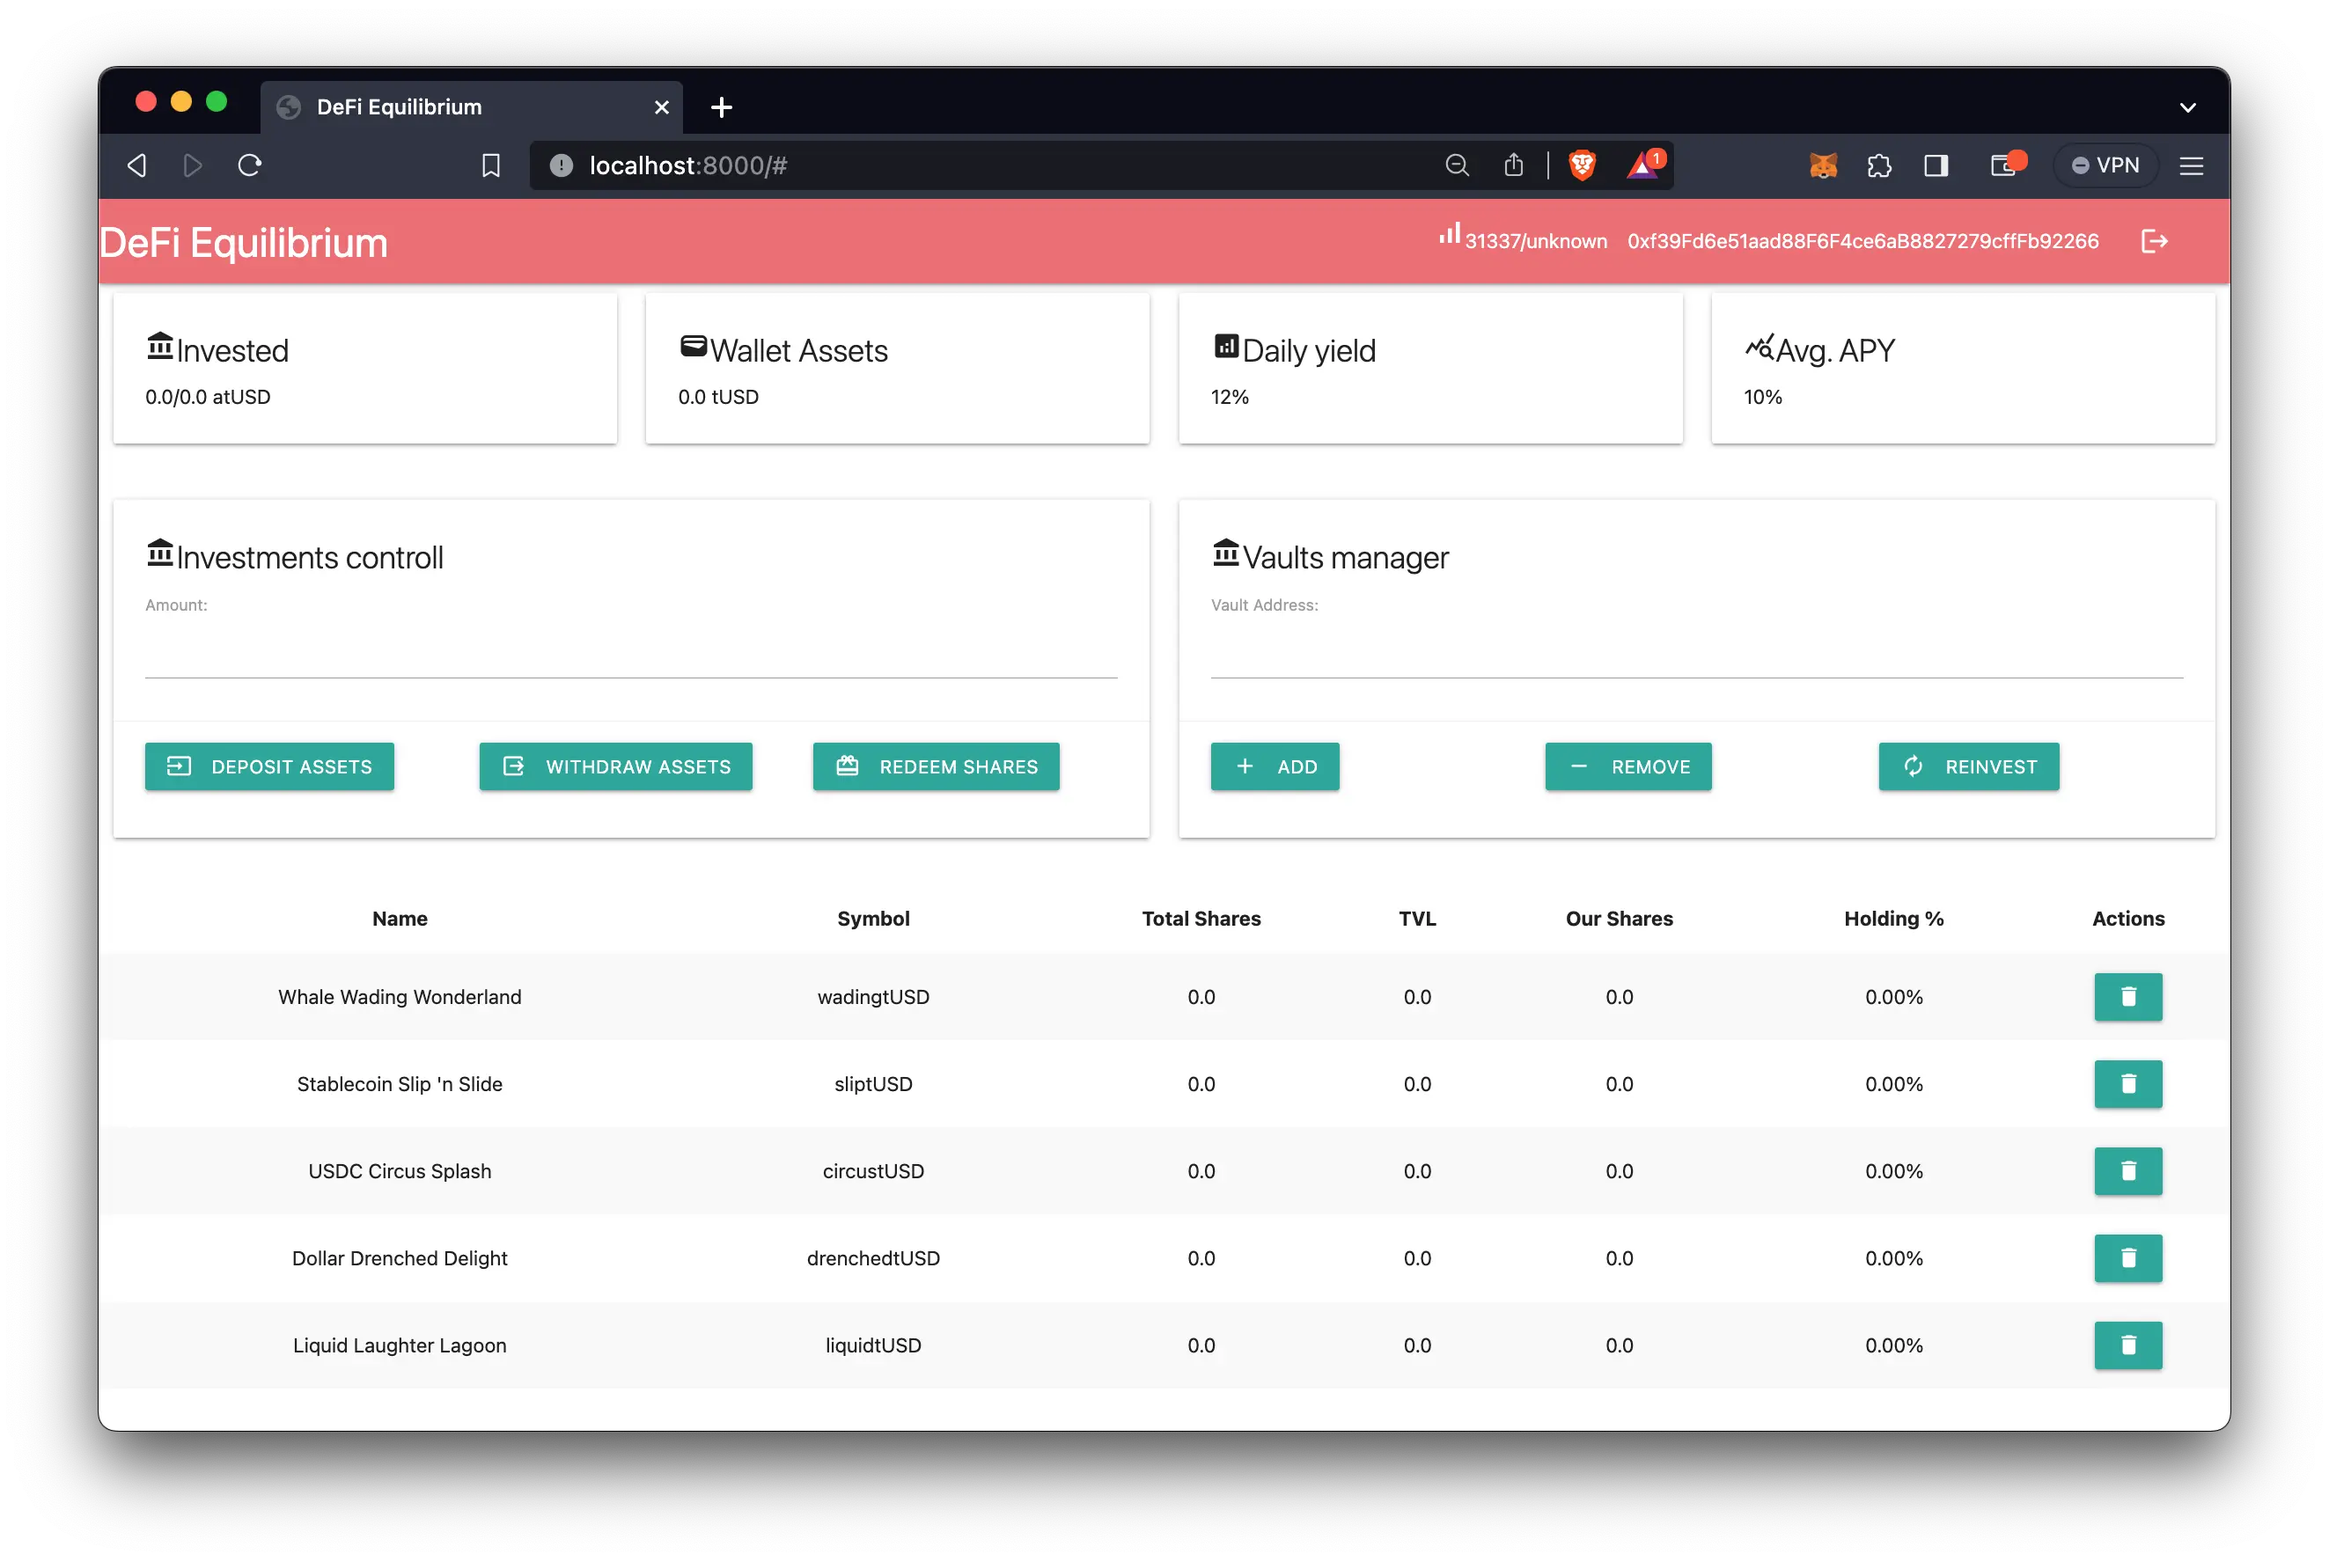
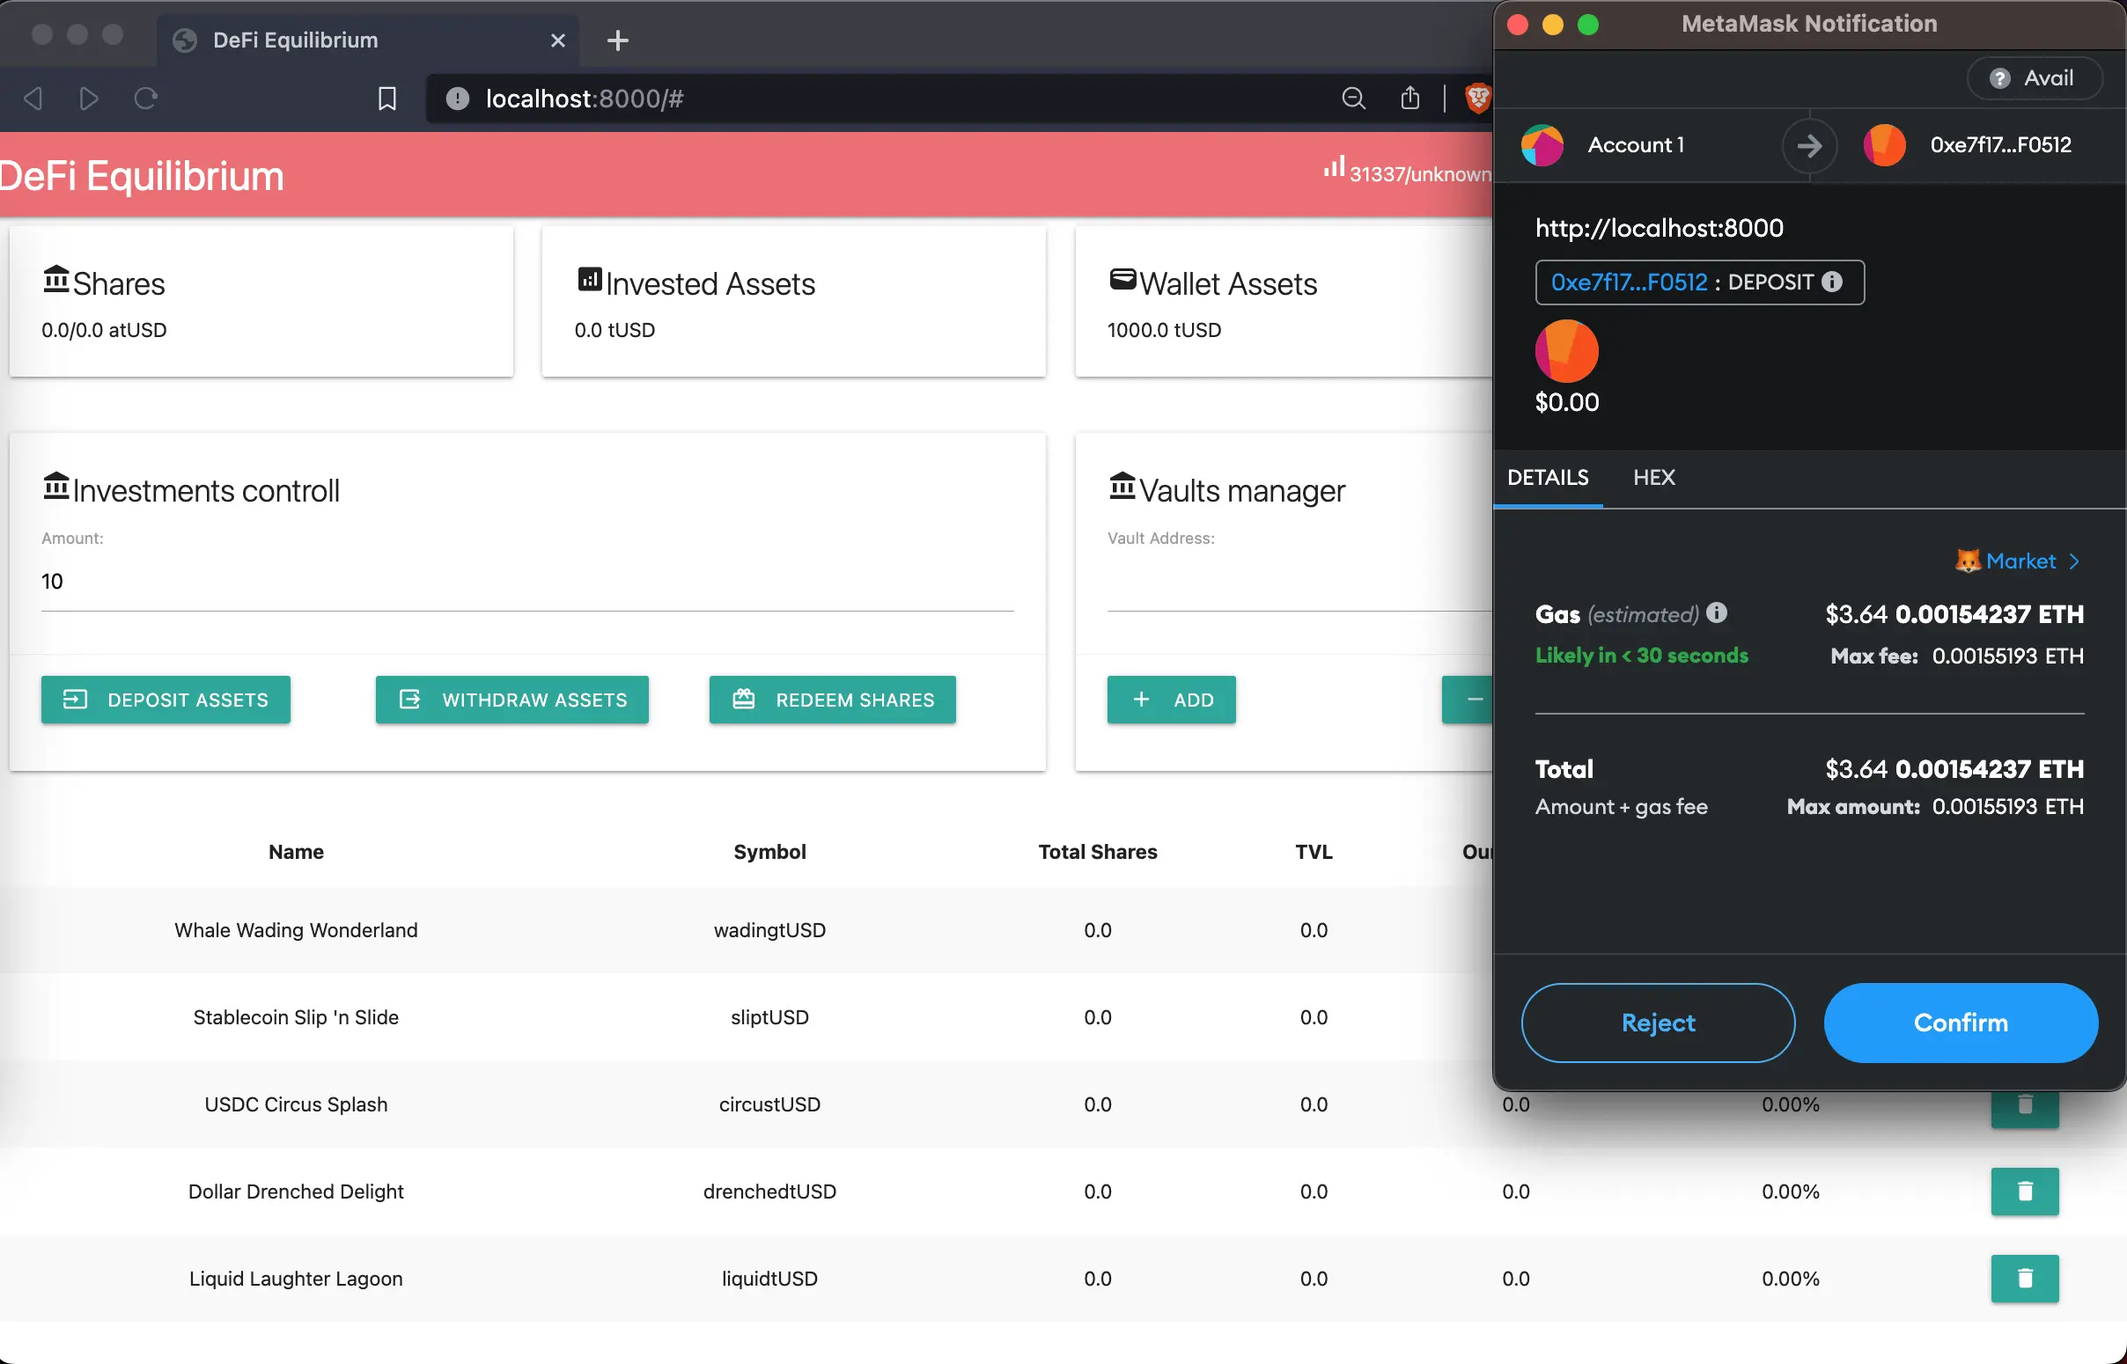
Update image

diff --git a/webapp-bootstrap/index.html b/webapp-bootstrap/index.html
@@ -18,9 +18,8 @@
         <div class="nav-wrapper">
             <span class="brand-logo">DeFi Equilibrium</span>
             <ul id="nav-mobile" class="right">
-                <li><span class="material-icons">signal_cellular_alt</span><span id="networkInfo"></span></li>
-                <li><a href="#"><span id="balanceInfo"></span></a></li>
-                <li><a href="#"><span id="walletInfo"></span></a></li>
+                <li><a><span class="material-icons">signal_cellular_alt</span><span id="networkInfo"></span></a></li>
+                <li><a><span class="material-icons">wallet</span><span id="walletInfo"></span></a></li>
                 <li><a href="#" id="connectWalletBtn"><i class="material-icons">account_balance_wallet</i></a></li>
                 <li><a href="#" id="disconnectWalletBtn"><i class="material-icons">logout</i></a></li>
 
@@ -70,8 +69,16 @@
         <div class="col s6 m3">
             <div class="card">
                 <div class="card-content">
-                    <span class="card-title"><i class="material-icons">account_balance</i>Invested </span>
+                    <span class="card-title"><i class="material-icons">account_balance</i>Shares</span>
                     <span id="shares">0</span></span>
+                </div>
+            </div>
+        </div>
+        <div class="col s6 m3">
+            <div class="card">
+                <div class="card-content">
+                    <span class="card-title"><i class="material-icons">analytics</i>Invested Assets</span>
+                    <span id="investedAssets">0</span></span>
                 </div>
             </div>
         </div>
@@ -80,14 +87,6 @@
                 <div class="card-content">
                     <span class="card-title"><i class="material-icons">wallet</i>Wallet Assets</span>
                     <span id="walletAssets">0</span></span>
-                </div>
-            </div>
-        </div>
-        <div class="col s6 m3">
-            <div class="card">
-                <div class="card-content">
-                    <span class="card-title"><i class="material-icons">analytics</i>Daily yield</span>
-                    <span id="walletAssets">12%</span></span>
                 </div>
             </div>
         </div>
@@ -106,10 +105,10 @@
             document.getElementById('shares').innerText = ethers.utils.formatEther(balance) + "/" + ethers.utils.formatEther(total) + " " + symbol;
         }
         function updateInvestedAssets(amount, symbol) {
-            document.getElementById('walletAssets').innerText = ethers.utils.formatEther(amount) + " " + symbol;
+            document.getElementById('investedAssets').innerText = ethers.utils.formatEther(amount) + " " + symbol;
         }
-        function updateNonInvestedAssets(amount, symbol) {
-            $('#balance').text(ethers.utils.formatEther(amount) + " " + symbol);
+        function updateWalletAssets(amount, symbol) {
+            $('#walletAssets').text(ethers.utils.formatEther(amount) + " " + symbol);
         }
     </script>
 

diff --git a/webapp-bootstrap/app.js b/webapp-bootstrap/app.js
@@ -87,7 +87,7 @@ document.addEventListener('DOMContentLoaded', async () => {
     async function fetchBalance() {
         const balance = await assetTokenContract.balanceOf(walletAddress);
         const symbol = await assetTokenContract.symbol();
-        updateNonInvestedAssets(balance, symbol);
+        updateWalletAssets(balance, symbol);
     }
 
     async function fetchAll() {
